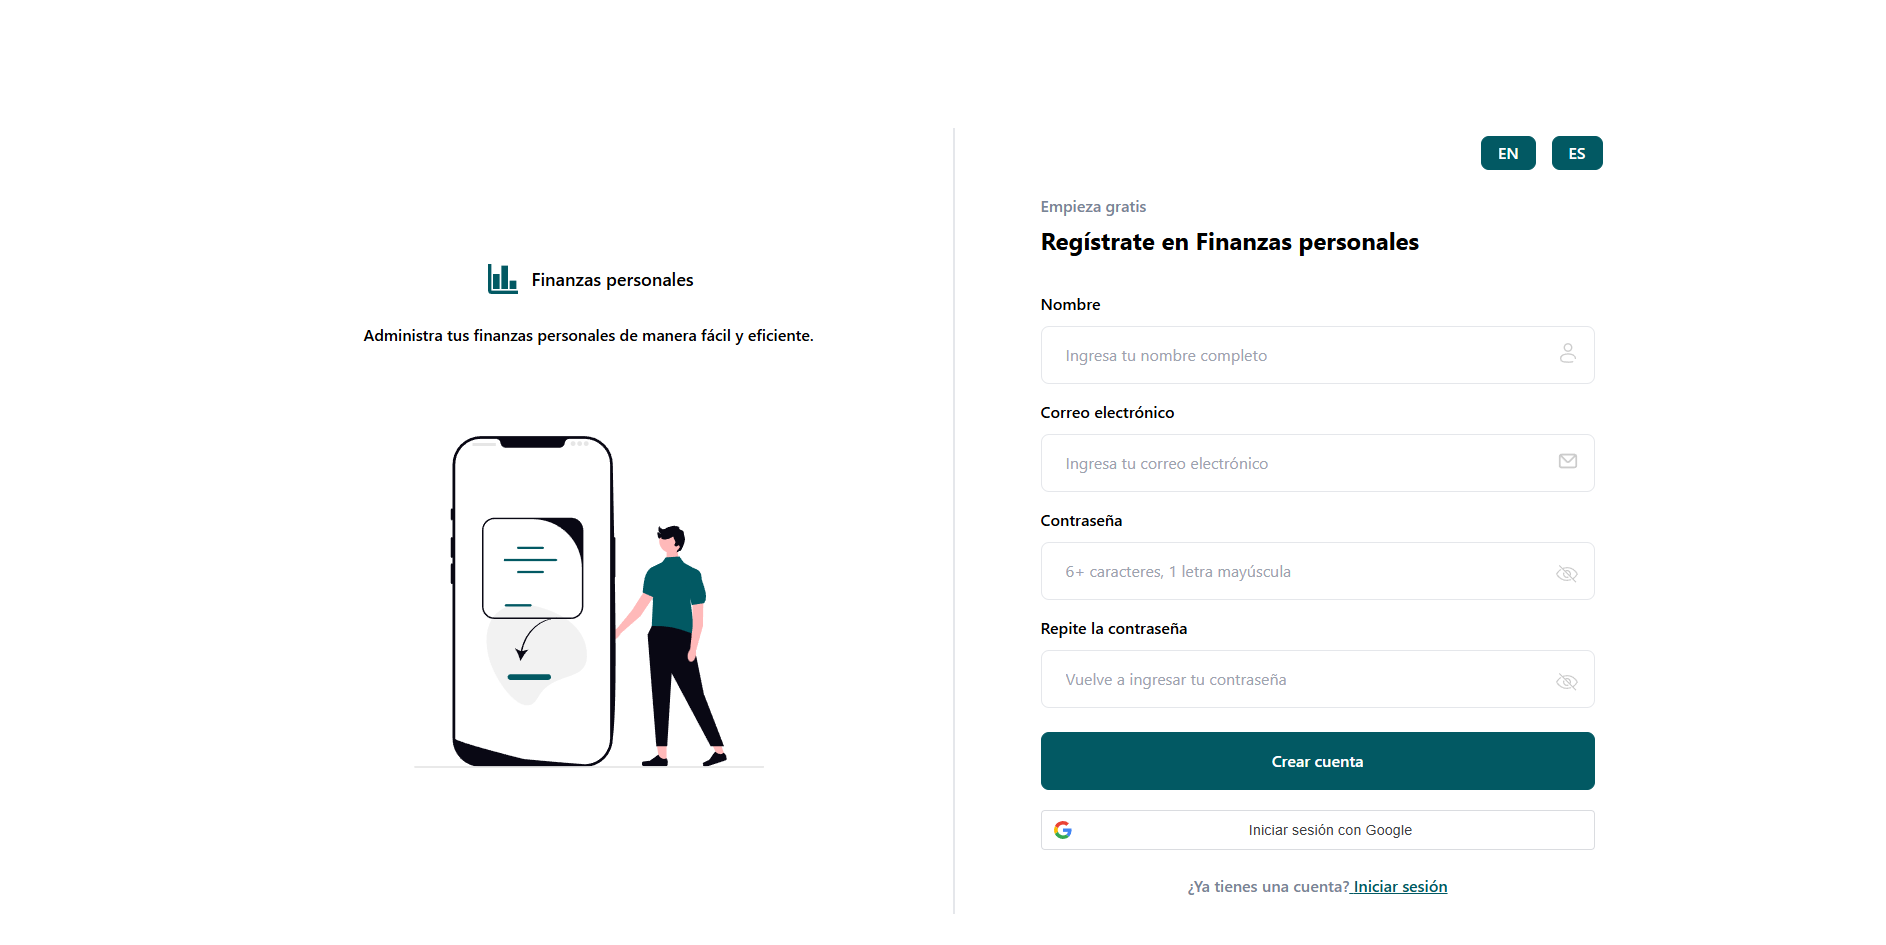
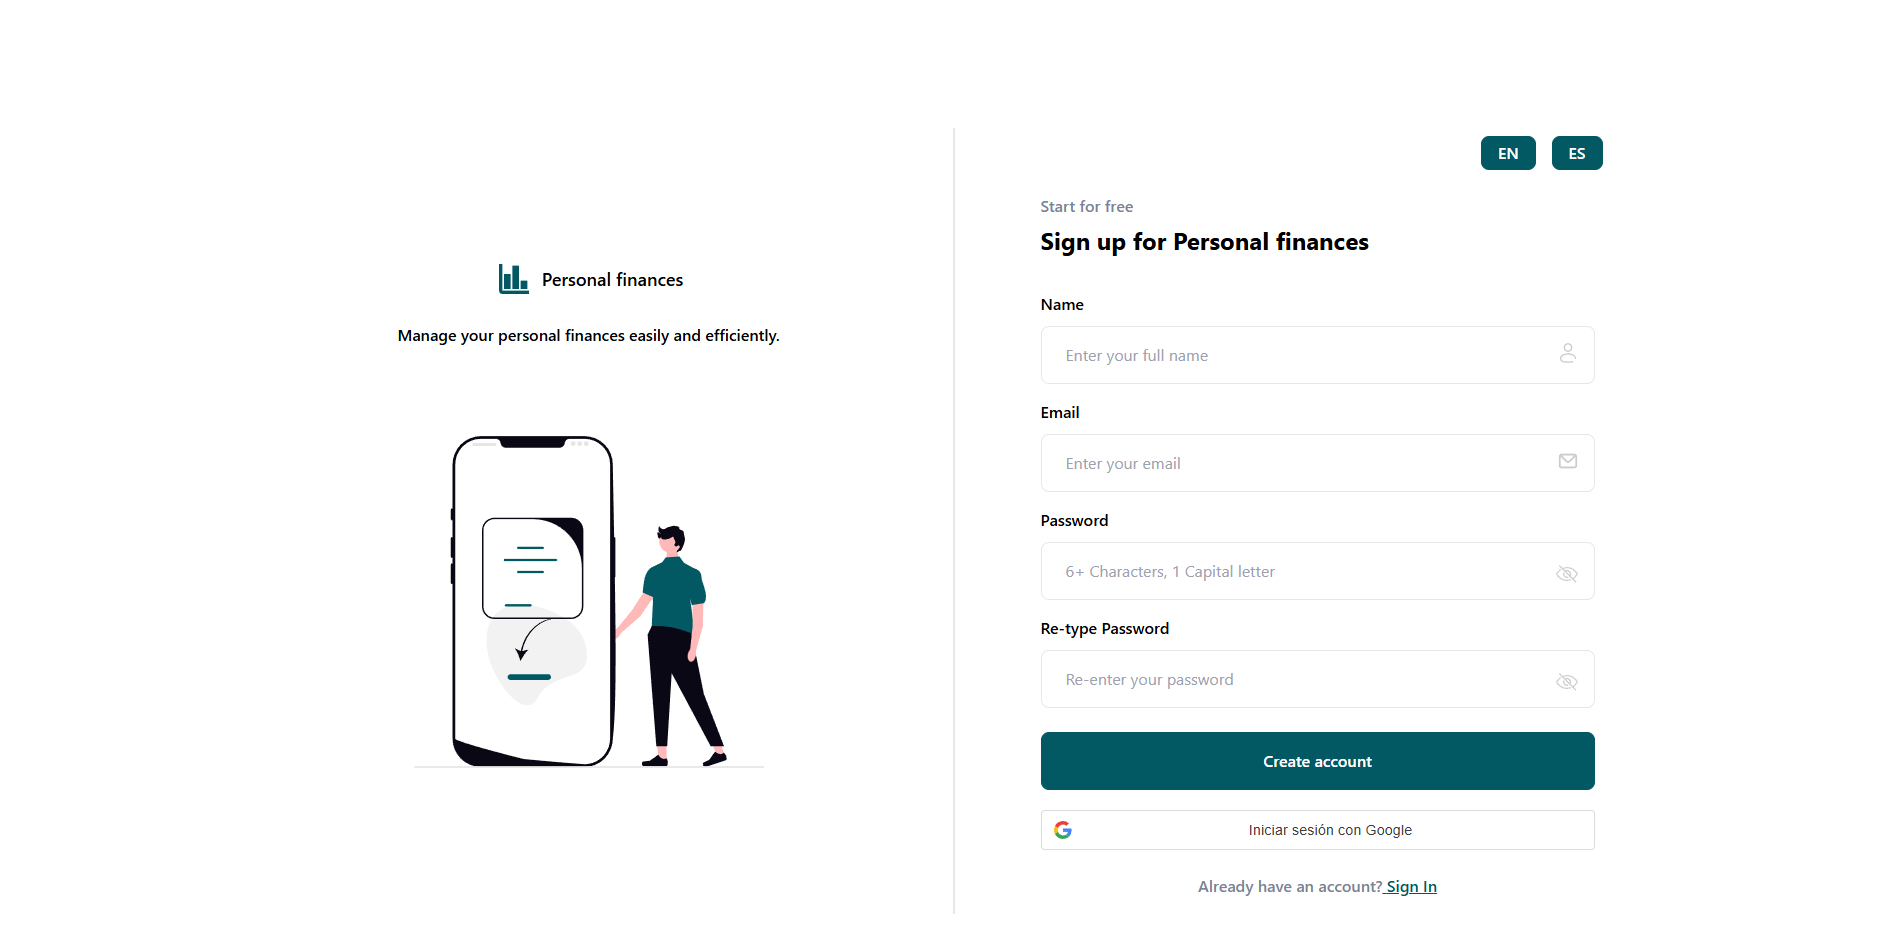
fix: update image reference in README and replace register image

diff --git a/README.md b/README.md
@@ -65,7 +65,7 @@ The project is divided into two main parts:
 
 ---
 
-<img src="./frontend/src/assets/imagen-graphic.png" alt="Task Tracker Preview" width="100%" />
+<img src="./frontend/src/assets/imagen-dashboard.png" alt="Task Tracker Preview" width="100%" />
 
 ---
 
